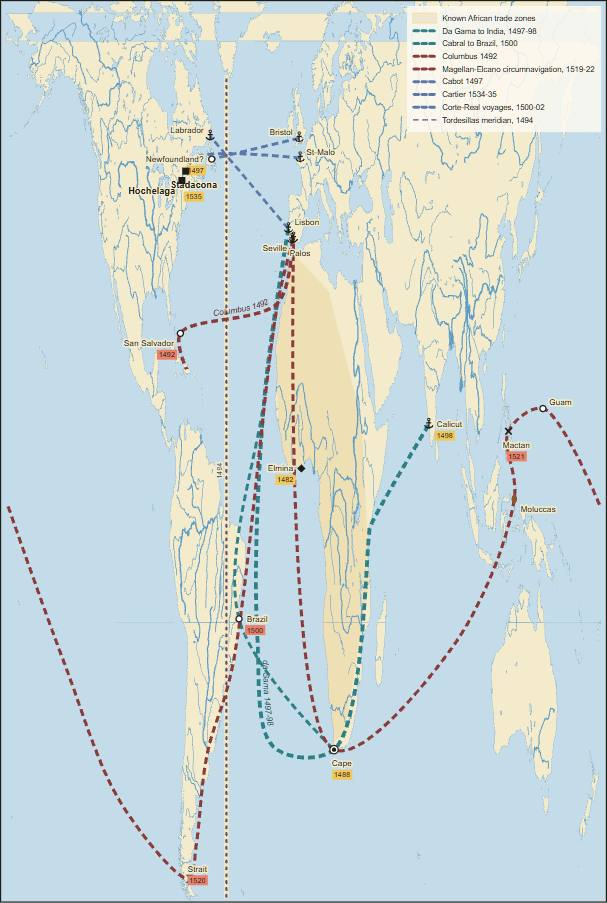
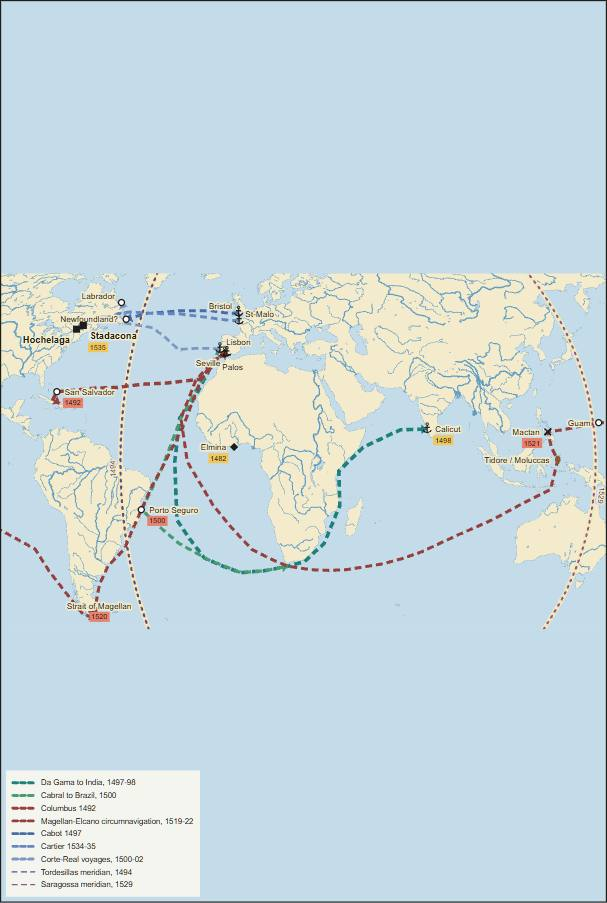
Redo discovery voyages figure
Copilot-Session: 37f2f47f-8b63-49cd-b8ce-cded564ac449

diff --git a/atlas/plates/voyages-discovery-1415-1522.js b/atlas/plates/voyages-discovery-1415-1522.js
@@ -1,25 +1,33 @@
 // Voyages of discovery and oceanic claims, round 11.
 (function () {
-  const POR="#2f7f86", SPA="#8c3b3b", NORTH="#5b78a8", LINE="#5f4b8b", AFR="#d8a84f";
-  const LIS=[-9.14,38.72], SEV=[-5.99,37.39], PAL=[-6.89,37.23], CAN=[-15.6,28.3], VER=[-23.60,15.11], ELM=[-1.35,5.08], CAPE=[18.47,-34.36], MOZ=[39.67,-4.05], MAL=[40.12,-3.22], CAL=[75.78,11.26], BRA=[-39,-16], RIO=[-43.17,-22.9], PLATA=[-58.3,-35.0], STRAIT=[-69.0,-52.5], GUAM=[144.8,13.5], MACTAN=[123.96,10.31], MOL=[127.5,0.8], BRIS=[-2.59,51.45], NFLD=[-55.5,48.5], STM=[-2.03,48.65], GAS=[-64.48,48.83], QUE=[-71.21,46.81], HOC=[-73.56,45.50], LAB=[-56.4,51.7], SAN=[-74.47,24.05], HIS=[-70.7,19.0];
+  const POR1="#1f7f7a", POR2="#4a9b70", SPA="#963f3f", NORTH1="#476da6", NORTH2="#6687bd", NORTH3="#7f96c5", LINE="#5f4b8b", LINE2="#8a5b92";
+  const meridian = (lon) => [-58,-45,-30,-15,0,15,30,45,60,66].map((lat) => [lon, lat]);
+  const COLUMBUS=[[-6.89,37.23],[-9.5,35.5],[-16.5,28.3],[-30,27],[-50,25.5],[-68,24.5],[-74.5,24.05],[-75.5,21.5],[-72.5,20.0]];
+  const GAMA=[[-9.14,38.7],[-12,33],[-18,22],[-23.5,15],[-25,0],[-25,-20],[-15,-33],[0,-38],[20,-35.8],[27,-34.2],[35,-28],[40.9,-15.0],[40.3,-3.2],[50,5],[65,11],[75.78,11.25]];
+  const CABRAL=[[-9.14,38.7],[-12,33],[-23,15],[-30,-2],[-38.9,-16.4],[-25,-28],[0,-38],[20,-35.8]];
+  const MAGELLAN=[[-6.0,37.4],[-6.4,36.8],[-9.5,35],[-16,28],[-22,12],[-30,-2],[-34,-8],[-43.2,-23.0],[-48,-30],[-56,-35.5],[-62,-42],[-66,-48],[-68.4,-52.4],[-71,-53.5],[-74.5,-52.5],[-78,-45],[-85,-30],[-110,-15],[-140,0],[-170,10],[170,12],[144.75,13.45],[130,11],[123.98,10.3],[125,5],[127.4,0.7],[125,-9.5],[115,-14],[90,-25],[60,-35],[30,-37],[20,-35.8],[5,-30],[-10,-15],[-20,0],[-23,15],[-18,28],[-11,35],[-6.4,36.8],[-6.0,37.4]];
+  const CABOT=[[-2.6,51.45],[-6,51],[-15,52],[-30,52],[-45,51],[-53.0,49.0]];
+  const CARTIER=[[-2.0,48.65],[-5.5,48.5],[-20,50],[-40,51],[-52.5,51.6],[-57.5,51.0],[-60,50.0],[-64.5,49.2],[-64.48,48.83],[-66.5,49.3],[-69.5,48.2],[-71.21,46.81],[-72.5,46.2],[-73.57,45.50]];
+  const CORTE=[[-9.14,38.7],[-27,38.5],[-40,46],[-52.7,47.6],[-55,52],[-58,55]];
+  const LIS=[-9.14,38.7], SEV=[-6.0,37.4], PAL=[-6.89,37.23], BRIS=[-2.6,51.45], STM=[-2.0,48.65], ELM=[-1.35,5.08], CAL=[75.78,11.25], MACTAN=[123.98,10.3], GUAM=[144.75,13.45], MOL=[127.4,0.7], STRAIT=[-70.9,-53.0], PORTO=[-39.06,-16.45], SAN=[-74.5,24.05], QUE=[-71.21,46.81], HOC=[-73.57,45.50], NFLD=[-53.0,49.0], LAB=[-58,55];
   window.PLATES["voyages-discovery-1415-1522"] = { id:"voyages-discovery-1415-1522", title:"Voyages of discovery and oceanic claims", head:"Age of Transition / Discoveries", folio:"29", viewer:"transition/1498/ch-voyages-discovery", figures:[
-    {caption:"Atlantic, northern and circumnavigation routes, 1492-1535", share:1, extent:[[-180,-55],[180,70]], projection:"plan", layers:[
-      {id:"africa-zone",type:"area",clipToLand:true,tier:"influence",colour:AFR,legend:"Known African trade zones",polygon:[[-18,32],[-5,35],[15,30],[35,12],[40,-10],[25,-32],[10,-35],[-5,-10],[-15,10]],smooth:false},
-      {id:"gama-route",type:"route",style:"dashed",weight:3,colour:POR,legend:"Da Gama to India, 1497-98",path:[LIS,VER,[-28,-18],[-18,-34],CAPE,MOZ,MAL,CAL],label:"da Gama 1497-98",labelSegment:0},
-      {id:"cabral-route",type:"route",style:"dashed",weight:2,colour:POR,legend:"Cabral to Brazil, 1500",path:[LIS,VER,BRA,CAPE]},
-      {id:"columbus-route",type:"route",style:"dashed",weight:2.6,colour:SPA,legend:"Columbus 1492",path:[PAL,CAN,SAN,HIS],label:"Columbus 1492"},
-      {id:"magellan",type:"route",style:"dashed",weight:2.2,colour:SPA,legend:"Magellan-Elcano circumnavigation, 1519-22",segments:[[SEV,CAN,RIO,PLATA,[-65,-48],STRAIT,[-110,-42],[-145,-22],[-179,0]],[[179,0],GUAM,MACTAN,MOL,[90,-20],CAPE,SEV]]},
-      {id:"cabot",type:"route",style:"dashed",weight:2,colour:NORTH,legend:"Cabot 1497",path:[BRIS,NFLD]},
-      {id:"cartier",type:"route",style:"dashed",weight:2,colour:NORTH,legend:"Cartier 1534-35",path:[STM,GAS,QUE,HOC]},
-      {id:"corte-real",type:"route",style:"dashed",weight:1.7,colour:NORTH,legend:"Corte-Real voyages, 1500-02",path:[LIS,LAB]},
-      {id:"tordesillas",type:"boundary",style:"meridian",colour:LINE,width:2.3,legend:"Tordesillas meridian, 1494",path:[[-46.6,-55],[-46.6,60]],dates:[[0.52,"1494"]]},
+    {caption:"Oceanic voyages and treaty meridians, 1492-1535", share:1, extent:[[-115,-58],[170,66]], projection:"naturalEarth", centerLon:20, base:{cropToExtent:true}, layers:[
+      {id:"gama-route",type:"route",geo:true,head:true,style:"dashed",weight:2.8,colour:POR1,legend:"Da Gama to India, 1497-98",path:GAMA},
+      {id:"cabral-route",type:"route",geo:true,head:true,style:"dashed",weight:2.2,colour:POR2,legend:"Cabral to Brazil, 1500",path:CABRAL},
+      {id:"columbus-route",type:"route",geo:true,head:true,style:"dashed",weight:2.6,colour:SPA,legend:"Columbus 1492",path:COLUMBUS},
+      {id:"magellan",type:"route",geo:true,head:true,style:"dashed",weight:2.1,colour:SPA,legend:"Magellan-Elcano circumnavigation, 1519-22",path:MAGELLAN},
+      {id:"cabot",type:"route",geo:true,head:true,style:"dashed",weight:2,colour:NORTH1,legend:"Cabot 1497",path:CABOT},
+      {id:"cartier",type:"route",geo:true,head:true,style:"dashed",weight:2,colour:NORTH2,legend:"Cartier 1534-35",path:CARTIER},
+      {id:"corte-real",type:"route",geo:true,head:true,style:"dashed",weight:1.8,colour:NORTH3,legend:"Corte-Real voyages, 1500-02",path:CORTE},
+      {id:"tordesillas",type:"boundary",style:"meridian",colour:LINE,width:2.3,legend:"Tordesillas meridian, 1494",path:meridian(-46.6),dates:[[0.45,"1494"]]},
+      {id:"saragossa",type:"boundary",style:"meridian",colour:LINE2,width:2.1,legend:"Saragossa meridian, 1529",path:meridian(142.5),dates:[[0.38,"1529"]]},
       {id:"lisbon",type:"point",symbol:"port",at:LIS,name:"Lisbon",labelPos:"ne"}, {id:"seville",type:"point",symbol:"port",at:SEV,name:"Seville",labelPos:"sw"}, {id:"palos",type:"point",symbol:"port",at:PAL,name:"Palos",labelPos:"s"}, {id:"bristol",type:"point",symbol:"port",at:BRIS,name:"Bristol",labelPos:"nw"}, {id:"st-malo",type:"point",symbol:"port",at:STM,name:"St-Malo",labelPos:"ne"},
-      {id:"san-salvador",type:"point",symbol:"find",at:SAN,name:"San Salvador",labelPos:"sw",tag:{text:"1492",colour:"#e8806a"}}, {id:"newfoundland",type:"point",symbol:"find",at:NFLD,name:"Newfoundland?",labelPos:"w",tag:{text:"1497",colour:"#f1c75b"}}, {id:"stadacona",type:"point",symbol:"large-city",at:QUE,name:"Stadacona",labelPos:"s",tag:{text:"1535",colour:"#f1c75b"}}, {id:"hochelaga",type:"point",symbol:"large-city",at:HOC,name:"Hochelaga",labelPos:"sw"}, {id:"red-bay",type:"point",symbol:"port",at:LAB,name:"Labrador",labelPos:"nw"},
-      {id:"cape",type:"point",symbol:"treaty",at:CAPE,name:"Cape",labelPos:"s",tag:{text:"1488",colour:"#f1c75b"}}, {id:"calicut",type:"point",symbol:"port",at:CAL,name:"Calicut",tag:{text:"1498",colour:"#f1c75b"}}, {id:"elmina",type:"point",symbol:"fortress",at:ELM,name:"Elmina",labelPos:"w",tag:{text:"1482",colour:"#f1c75b"}}, {id:"brazil",type:"point",symbol:"find",at:BRA,name:"Brazil",labelPos:"e",tag:{text:"1500",colour:"#e8806a"}}, {id:"strait",type:"point",symbol:"pass",at:STRAIT,name:"Strait",labelPos:"n",tag:{text:"1520",colour:"#e8806a"}}, {id:"guam",type:"point",symbol:"find",at:GUAM,name:"Guam",labelPos:"ne"}, {id:"mactan",type:"point",symbol:"battle",at:MACTAN,name:"Mactan",labelPos:"s",tag:{text:"1521",colour:"#e8806a"}}, {id:"moluccas",type:"point",symbol:"spice",at:MOL,name:"Moluccas",labelPos:"se"}
-    ], legend:{position:"top-right",columns:1}}
-  ], text:{intro:"The map keeps actual routes separate from treaty claims, and uses split route segments where Magellan-Elcano crosses the antimeridian.", sections:[
-    {heading:"Portugal", entries:[{date:"1497-98",text:"Da Gama sails from Lisbon via Cape Verde, the South Atlantic, the Cape, Mozambique and Malindi to Calicut.",refs:["gama-route","cape","calicut","africa-zone"]},{date:"1500",text:"Cabral's separate outward Atlantic swing reaches Brazil before turning toward the Cape.",refs:["cabral-route","brazil"]}]},
+      {id:"san-salvador",type:"point",symbol:"find",at:SAN,name:"San Salvador",labelPos:"e",tag:{text:"1492",colour:"#e8806a"}}, {id:"newfoundland",type:"point",symbol:"find",at:NFLD,name:"Newfoundland?",labelPos:"w"}, {id:"labrador",type:"point",symbol:"find",at:LAB,name:"Labrador",labelPos:"nw"}, {id:"stadacona",type:"point",symbol:"large-city",at:QUE,name:"Stadacona",labelPos:"se",tag:{text:"1535",colour:"#f1c75b"}}, {id:"hochelaga",type:"point",symbol:"large-city",at:HOC,name:"Hochelaga",labelPos:"sw"},
+      {id:"elmina",type:"point",symbol:"fortress",at:ELM,name:"Elmina",labelPos:"w",tag:{text:"1482",colour:"#f1c75b"}}, {id:"calicut",type:"point",symbol:"port",at:CAL,name:"Calicut",tag:{text:"1498",colour:"#f1c75b"}}, {id:"brazil",type:"point",symbol:"find",at:PORTO,name:"Porto Seguro",labelPos:"e",tag:{text:"1500",colour:"#e8806a"}}, {id:"strait",type:"point",symbol:"pass",at:STRAIT,name:"Strait of Magellan",labelPos:"n",tag:{text:"1520",colour:"#e8806a"}}, {id:"guam",type:"point",symbol:"find",at:GUAM,name:"Guam",labelPos:"w"}, {id:"mactan",type:"point",symbol:"battle",at:MACTAN,name:"Mactan",labelPos:"w",tag:{text:"1521",colour:"#e8806a"}}, {id:"moluccas",type:"point",symbol:"spice",at:MOL,name:"Tidore / Moluccas",labelPos:"w"}
+    ], legend:{position:"bottom-left",columns:1}}
+  ], text:{intro:"Voyage tracks are drawn as geographic sea routes, so the great-circle projection clips the Pacific crossing instead of drawing false straight lines through land.", sections:[
+    {heading:"Portugal", entries:[{date:"1497-98",text:"Da Gama sails from Lisbon through the South Atlantic, around the Cape and across the Indian Ocean to Calicut.",refs:["gama-route","elmina","calicut"]},{date:"1500",text:"Cabral's separate outward Atlantic swing reaches Porto Seguro in Brazil before turning back toward the Cape route.",refs:["cabral-route","brazil"]}]},
     {heading:"Spain", entries:[{date:"1492",text:"Columbus sails from Palos and the Canaries to San Salvador and Hispaniola.",refs:["columbus-route","san-salvador"]},{date:"1519-22",text:"Magellan and Elcano make the first circumnavigation: South America, the Pacific, Guam, Mactan, the Moluccas, the Indian Ocean and home around the Cape.",refs:["magellan","strait","guam","mactan","moluccas"]}]},
-    {heading:"Northern Atlantic", entries:[{date:"1497-1535",text:"Cabot, the Corte-Real brothers and Cartier put Newfoundland, Labrador and the St. Lawrence into European maps, while Stadacona and Hochelaga remain Indigenous towns.",refs:["cabot","corte-real","cartier","newfoundland","red-bay","stadacona","hochelaga"]},{date:"1494",text:"Tordesillas marks a treaty meridian; it is a claim line, not a voyage route or a modern border.",refs:["tordesillas"]}]}
-  ]}, sources:["Penguin Atlas Vol. 1 pp. 220-225", "Approximate voyage tracks and treaty line; coastlines: Natural Earth 1:50m"] };
+    {heading:"Northern Atlantic", entries:[{date:"1497-1535",text:"Cabot, the Corte-Real brothers and Cartier put Newfoundland, Labrador and the St. Lawrence into European maps, while Stadacona and Hochelaga remain Indigenous towns.",refs:["cabot","corte-real","cartier","newfoundland","labrador","stadacona","hochelaga"]},{date:"1494-1529",text:"Tordesillas and Saragossa are treaty meridians dividing paper claims; they are not voyage routes or modern borders.",refs:["tordesillas","saragossa"]}]}
+  ]}, sources:["Penguin Atlas Vol. 1 pp. 220-225", "Approximate voyage tracks and treaty lines; coastlines: Natural Earth 1:50m"] };
 })();

diff --git a/atlas/js/plate.js b/atlas/js/plate.js
@@ -39,13 +39,15 @@
       const pad = 6;
       const x = d3.scaleLinear().domain([W, E]).range([pad, w - pad]);
       const y = d3.scaleLinear().domain([S, N]).range([h - pad, pad]);
-      const flat = ([lon, lat]) => [x(lon), y(lat)];
-      flat.stream = (stream) => d3.geoTransform({ point(lon, lat) { const p = flat([lon, lat]); stream.point(p[0], p[1]); } }).stream(stream);
-      return flat;
+      return ([lon, lat]) => [x(lon), y(lat)];
     }
     if (kind === "conic") {
       const p1 = S + (N - S) / 6, p2 = N - (N - S) / 6;
       proj = d3.geoConicConformal().parallels([p1, p2]).rotate([-(W + E) / 2, 0]);
+    } else if (kind === "naturalEarth") {
+      proj = d3.geoNaturalEarth1().rotate([-(fig.centerLon != null ? fig.centerLon : (W + E) / 2), 0]);
+    } else if (kind === "equirectangular") {
+      proj = d3.geoEquirectangular().rotate([-(fig.centerLon != null ? fig.centerLon : (W + E) / 2), 0]);
     } else proj = d3.geoMercator();
     proj.fitExtent([[6, 6], [w - 6, h - 6]], corners);
     // clip geometry to the frame so a figure only carries the coastline it shows (keeps SVG exports small)
@@ -405,6 +407,12 @@ function drawSmallMultiplesFigure(container, fig, fi, w, h, uid) {
         L_WATER.append("path").attr("d", geo(f)).attr("fill", "none").attr("stroke", RIVER).attr("stroke-width", Math.max(0.5, 1.6 - sr * 0.18)).attr("stroke-linecap", "round");
       }
     }
+    if (base.cropToExtent && fig.extent) {
+      const [[W, S], [E, N]] = fig.extent, mid = (W + E) / 2;
+      const top = proj([mid, N])?.[1], bottom = proj([mid, S])?.[1];
+      if (Number.isFinite(top) && top > 0) root.append("rect").attr("x", 0).attr("y", 0).attr("width", w).attr("height", top).attr("fill", base.sea || SEA);
+      if (Number.isFinite(bottom) && bottom < h) root.append("rect").attr("x", 0).attr("y", bottom).attr("width", w).attr("height", h - bottom).attr("fill", base.sea || SEA);
+    }
 
     const layerG = (parent, L) => parent.append("g").attr("class", `layer ${L.type}`).attr("data-layer", L.id || null);
     const layers = fig.layers || [];
@@ -477,8 +485,9 @@ function drawSmallMultiplesFigure(container, fig, fi, w, h, uid) {
       const c = L.colour || "#b0753a";
       const rw = weightedWidth(L, L.style === "road" ? 2.4 : L.style === "dashed" ? 2 : 3);
       const segs = L.segments || [L.path];
-      const ds = segs.map((seg) => d3.line().curve(d3.curveCatmullRom.alpha(0.5))(seg.map(proj)));
+      const ds = L.geo ? segs.map((seg) => geo({ type: "LineString", coordinates: seg })) : segs.map((seg) => d3.line().curve(d3.curveCatmullRom.alpha(0.5))(seg.map(proj)));
       for (const d of ds) {
+        if (!d) continue;
         if (L.style === "road") {
           // a built road (the Persian royal road, the Roman roads): pale bed with dark dashes, never confused with a campaign
           g.append("path").attr("d", d).attr("fill", "none").attr("stroke", L.bed || "#f0d27a").attr("stroke-width", rw + 1.6).attr("stroke-linecap", "round");
@@ -486,9 +495,10 @@ function drawSmallMultiplesFigure(container, fig, fi, w, h, uid) {
         } else if (L.style === "dashed") g.append("path").attr("d", d).attr("fill", "none").attr("stroke", c).attr("stroke-width", rw).attr("stroke-dasharray", "7 4");
         else g.append("path").attr("d", d).attr("fill", "none").attr("stroke", c).attr("stroke-width", rw).attr("stroke-linecap", "round").attr("stroke-dasharray", "0.1 5.5");
       }
-      if (L.head) arrowHead(svg, g, ds[ds.length - 1], rw, c, 6);
+      const headPath = ds.filter(Boolean).at(-1);
+      if (L.head && headPath) arrowHead(svg, g, headPath, rw, c, 6);
       const labelSeg = L.labelSegment != null ? segs[L.labelSegment] : segs.reduce((best, seg) => (seg.length > best.length ? seg : best), segs[0]);
-      if (L.label && labelSeg) alongLabel(g, svg, readable(labelSeg, proj), L.label, { size: 8.5, fill: shade(c, -1.2), dy: -5, italic: true });
+      if (L.label && labelSeg) alongLabel(g, svg, L.geo ? (geo({ type: "LineString", coordinates: labelSeg }) || readable(labelSeg, proj)) : readable(labelSeg, proj), L.label, { size: 8.5, fill: shade(c, -1.2), dy: -5, italic: true });
       lineDates(g, svg, L, proj, c);
     }
 

diff --git a/atlas/js/plate-model.js b/atlas/js/plate-model.js
@@ -91,6 +91,7 @@
           if (L.type === "boundary" && L.style && !BOUNDARY_STYLES.includes(L.style)) bad(`${lw}: unknown boundary style ${L.style}`);
           if (L.type === "route" && L.style && !ROUTE_STYLES.includes(L.style)) bad(`${lw}: unknown route style ${L.style}`);
           if (L.type === "route" && L.weight != null && (!Number.isFinite(L.weight) || L.weight <= 0)) bad(`${lw}: route weight must be a positive number`);
+          if (L.geo != null && (L.type !== "route" || typeof L.geo !== "boolean")) bad(`${lw}: geo must be true or false on a route`);
           for (const dt of L.dates || []) {
             if (!Array.isArray(dt) || typeof dt[0] !== "number" || dt[0] < 0 || dt[0] > 1 || !dt[1]) bad(`${lw}: dates must be [[0..1, "text"], ...]`);
           }

diff --git a/docs/atlas-design-language.md b/docs/atlas-design-language.md
@@ -167,7 +167,9 @@ Sea `#b9dff5`, land `#f3ebcb`–`#f7f7fb`, desert `#efd96d`, cultivation `#72ad4
 | Partition lines (`boundary` style `partition`) | done (round 6) for Verdun-style family or treaty divisions that cut one realm without pretending to be modern borders |
 | Treaty meridians (`boundary` style `meridian`) | done (round 11) for world-scale claim lines such as Tordesillas: a pale bed with a dotted purple stroke, visually separate from routes and state borders |
 | Multi-segment sea routes (`route.segments`) | done (round 11) for antimeridian crossings and broken ocean tracks such as Magellan-Elcano: one legend item, separate drawn segments, no false line across land |
-| Full-frame equirectangular plates (`projection:"plan"`) | improved (round 11) so the flat lon/lat projection can draw coastlines as well as overlays; useful when a world voyage map should crop to the stated latitude band instead of wasting the frame on polar water |
+| Geographic sea routes (`route.geo:true`) | done (round 11) for ocean voyages: routes render through `d3.geoPath`, so world projections clip antimeridian crossings and avoid false straight screen lines across continents |
+| World projections (`projection:"naturalEarth"` / `"equirectangular"`, optional `centerLon`) | done (round 11) for global voyage plates that need a standard world projection rather than a regional conic or flat planning grid |
+| Geographic crop bands (`base.cropToExtent`) | done (round 11) for global world-projection plates that should hide polar land outside the stated latitude band while keeping the chosen projection scale |
 | Built roads (`route` style `road`), fine stipple for fuzzy social zones | done (round 2) |
 | Origin halos on points (colony by founder) | done (round 2) |
 | Relief / environment tints | **not yet**: needs a hillshade or land-cover layer. Round 2 used terrain only faintly, so this stays low priority |
